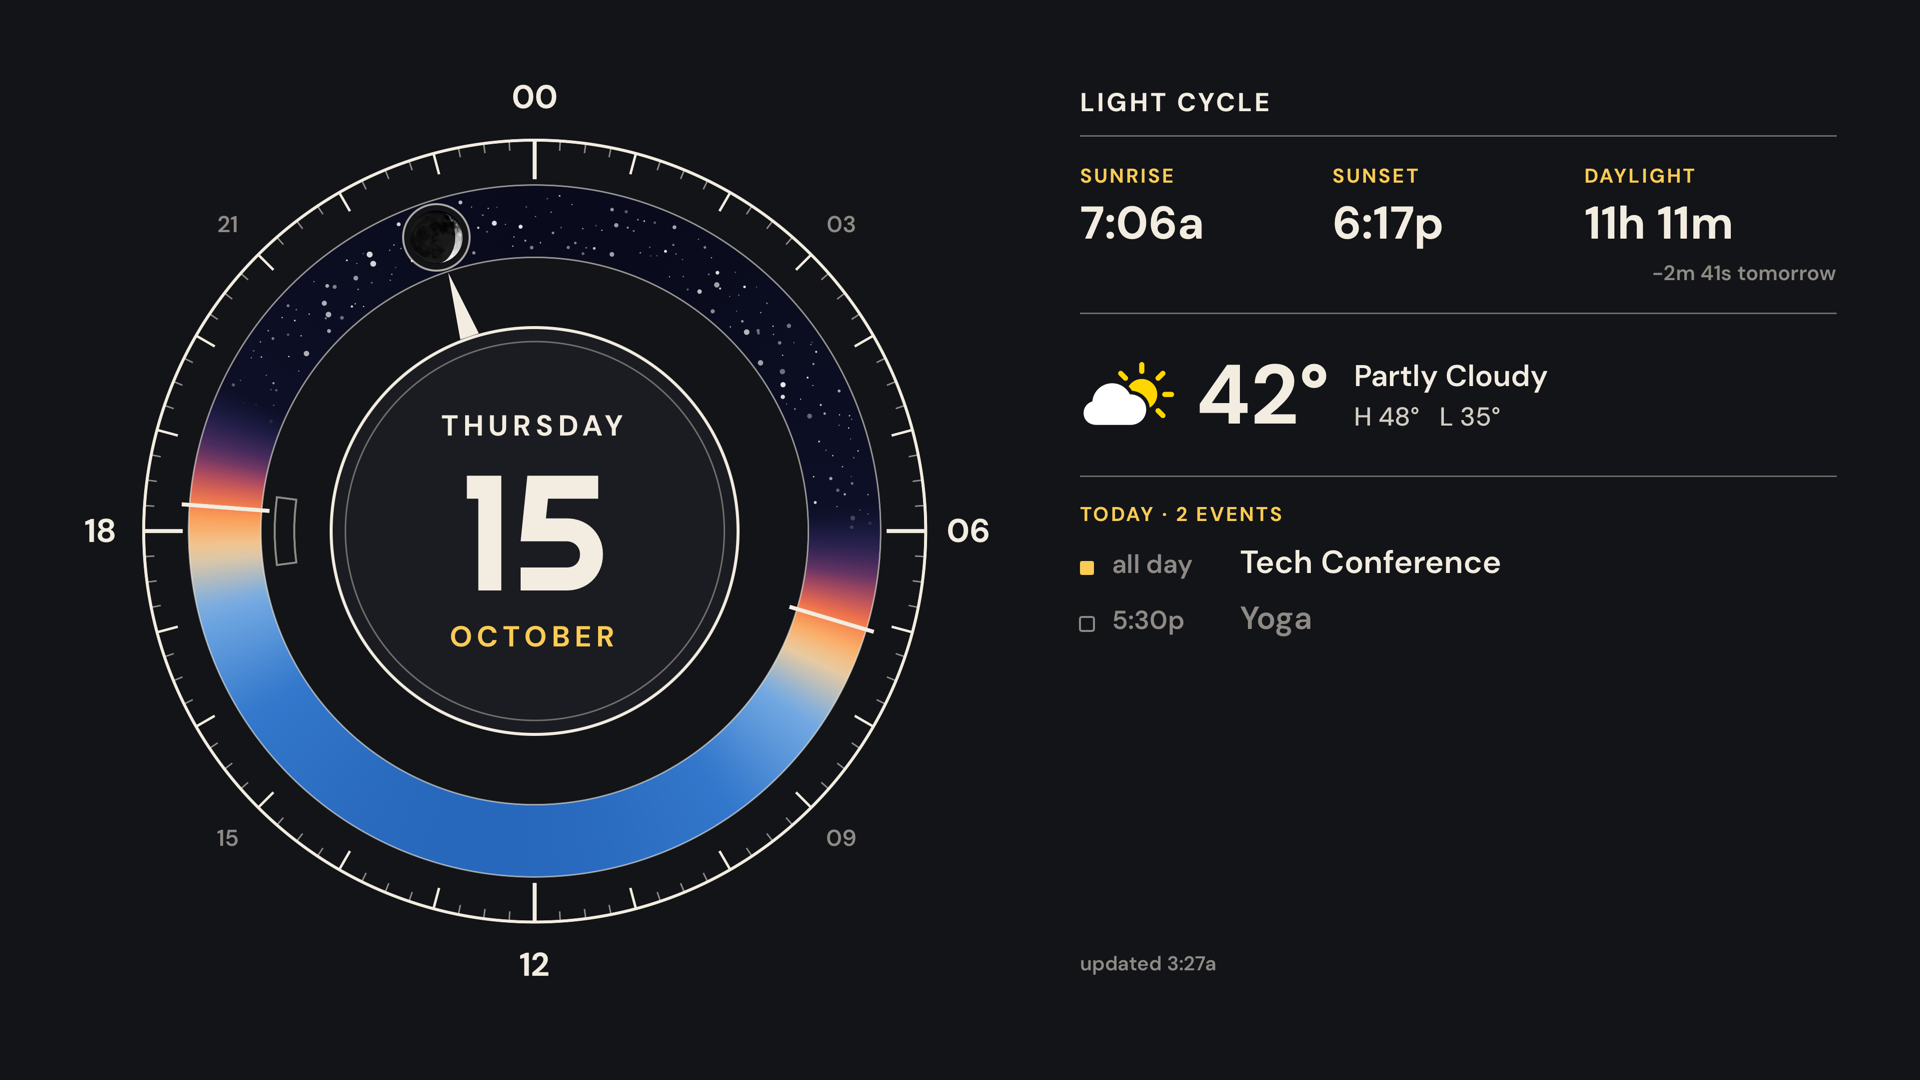
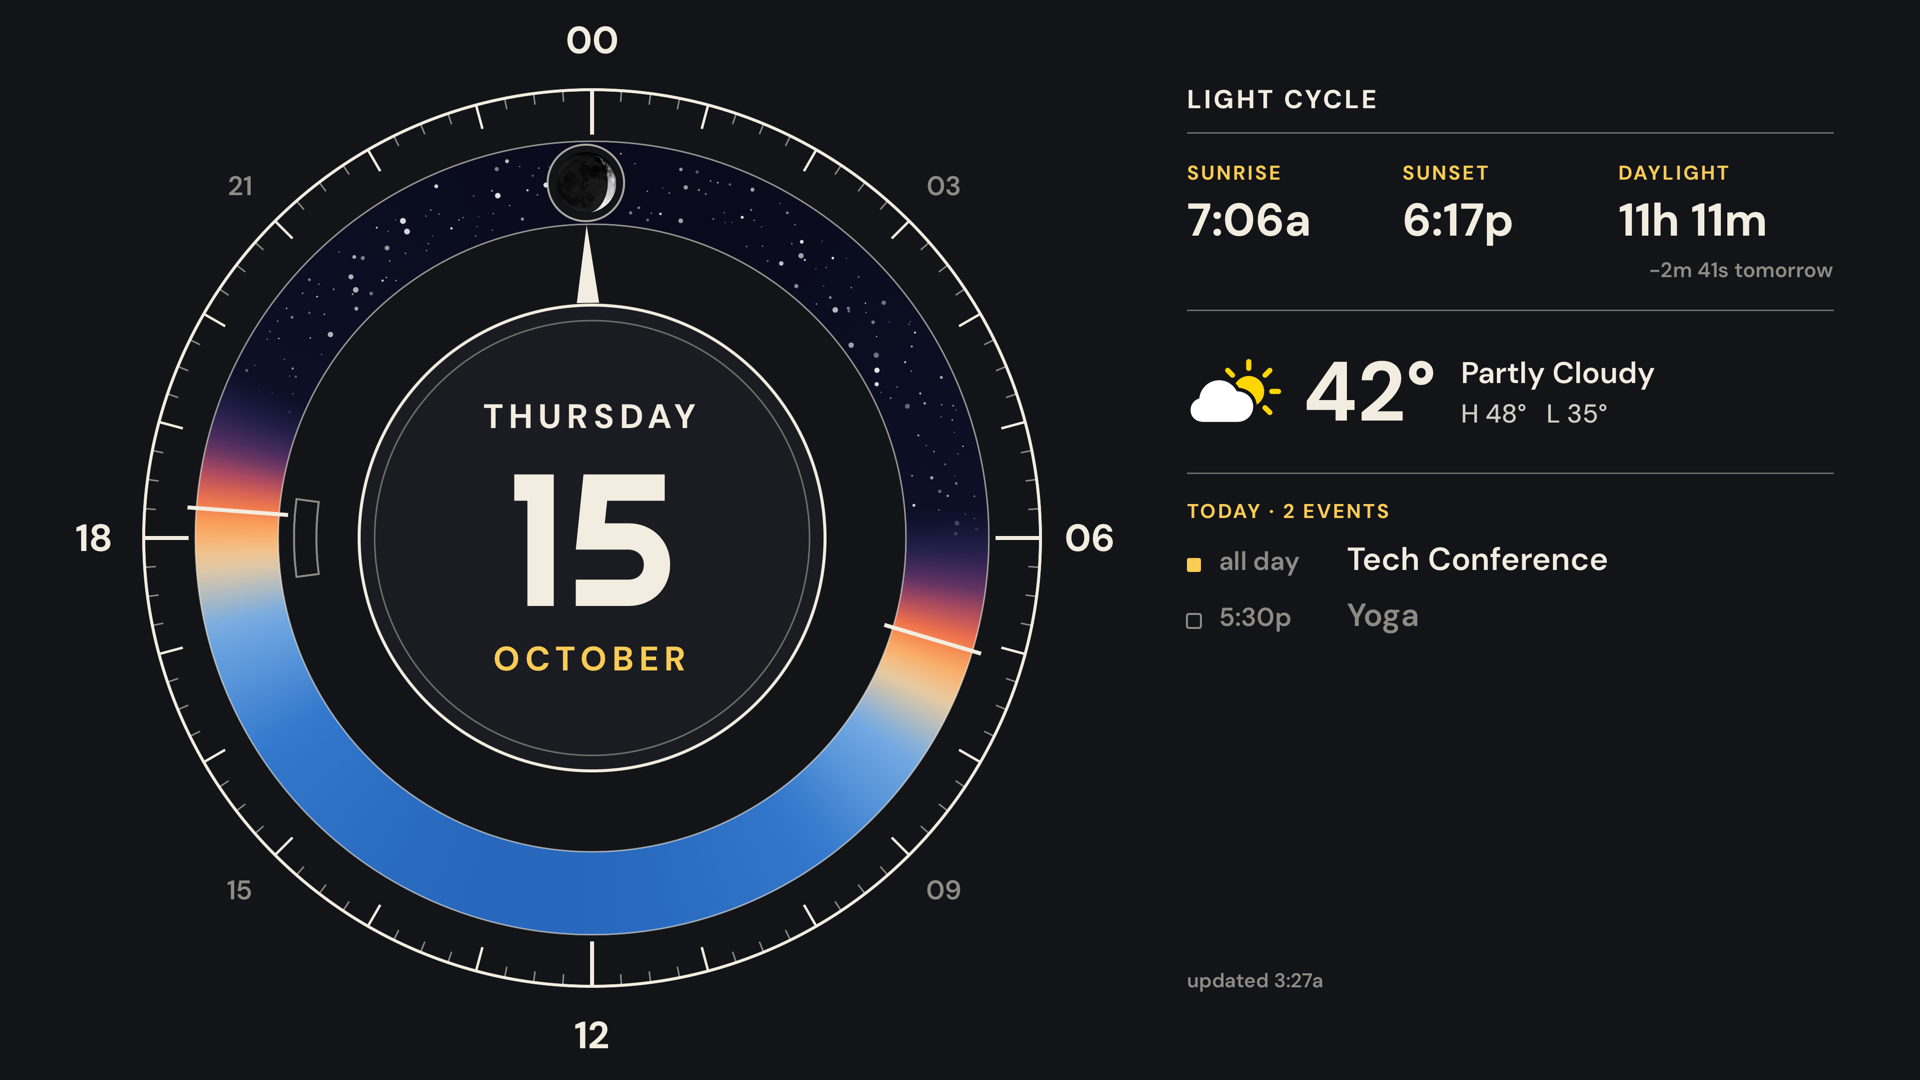
Slide between layouts, and give the Light Cycle dial more of the screen
Left and right now move between layouts with a short directional slide:
the new layout drifts in from the side pressed while the old one drifts out
the other way, crossfading over half a second. A pick in settings just
crossfades.

The Light Cycle takes the whole screen (fullBleed) so its dial can run
nearly to the top and bottom edges, about 12 % larger; the column keeps to
the overscan-safe margins.

diff --git a/HomeDashboardTV/UI/DashboardScreen.swift b/HomeDashboardTV/UI/DashboardScreen.swift
@@ -12,6 +12,8 @@ import SwiftUI
 struct DashboardScreen: View {
     @Environment(DashboardStore.self) private var store
     @FocusState private var screenFocused: Bool
+    /// Which way the last layout change went: -1 left, 1 right, 0 from settings.
+    @State private var step = 0
 
     var body: some View {
         ZStack {
@@ -27,8 +29,8 @@ struct DashboardScreen: View {
                     guard !store.settingsVisible else { return }
                     store.noteInteraction()
                     switch direction {
-                    case .left: store.layout = store.layout.advanced(by: -1)
-                    case .right: store.layout = store.layout.advanced(by: 1)
+                    case .left: change(by: -1)
+                    case .right: change(by: 1)
                     default: break
                     }
                 }
@@ -41,7 +43,18 @@ struct DashboardScreen: View {
         .background(Color(red: 0.05, green: 0.06, blue: 0.09))
         .animation(.easeInOut(duration: 0.25), value: store.settingsVisible)
         .onAppear { claimFocus() }
-        .onChange(of: store.settingsVisible) { _, _ in claimFocus() }
+        .onChange(of: store.settingsVisible) { _, visible in
+            // A pick in settings crossfades; only the remote's steps slide.
+            if visible { step = 0 }
+            claimFocus()
+        }
+    }
+
+    /// Steps the layout, noting the direction a run-loop turn first: the leaving layout takes
+    /// its transition from the last frame it was drawn in, so that frame must carry it.
+    private func change(by steps: Int) {
+        step = steps
+        DispatchQueue.main.async { store.layout = store.layout.advanced(by: steps) }
     }
 
     private func claimFocus() {
@@ -52,19 +65,28 @@ struct DashboardScreen: View {
     private var content: some View {
             TimelineView(.everyMinute) { context in
                 if let snapshot = store.snapshot {
-                    switch store.layout {
-                    case .dashboard: frame(DashboardView.self, snapshot, context.date)
-                    case .agenda: frame(AgendaPlateView.self, snapshot, context.date)
-                    case .moon: frame(MoonView.self, snapshot, context.date)
-                    case .horizon: frame(HorizonView.self, snapshot, context.date)
-                    case .light: frame(LightCycleView.self, snapshot, context.date)
-                    case .quote: frame(QuoteView.self, snapshot, context.date)
-                    case .night: frame(NightView.self, snapshot, context.date)
+                    ZStack {
+                        layout(snapshot, context.date)
+                            .id(store.layout)
+                            .transition(LayoutSlide.transition(step: step))
                     }
+                    .animation(.easeInOut(duration: 0.55), value: store.layout)
                 } else if store.connection != nil {
                     Waiting(problem: store.problem)
                 }
             }
+    }
+
+    @ViewBuilder private func layout(_ snapshot: Snapshot, _ now: Date) -> some View {
+                    switch store.layout {
+                    case .dashboard: frame(DashboardView.self, snapshot, now)
+                    case .agenda: frame(AgendaPlateView.self, snapshot, now)
+                    case .moon: frame(MoonView.self, snapshot, now)
+                    case .horizon: frame(HorizonView.self, snapshot, now)
+                    case .light: frame(LightCycleView.self, snapshot, now)
+                    case .quote: frame(QuoteView.self, snapshot, now)
+                    case .night: frame(NightView.self, snapshot, now)
+                    }
     }
 
     private func frame<T: Theme>(_ theme: T.Type, _ snapshot: Snapshot, _ now: Date) -> some View {
@@ -84,6 +106,30 @@ struct DashboardScreen: View {
             ("Birthdays", sources.birthdays?.staleness),
         ].filter { $0.1?.isWorthFlagging == true }.map(\.0)
         return stale.isEmpty ? nil : "\(ListFormatter.localizedString(byJoining: stale)) not updated lately"
+    }
+}
+
+/// Moving between layouts with the remote: the new one drifts in from the side pressed as
+/// the old one drifts out the other way, both a fraction of the screen, crossfading as they
+/// go. A layout picked in settings (no direction) just crossfades.
+private struct LayoutSlide: ViewModifier {
+    let offset: CGFloat
+
+    func body(content: Content) -> some View {
+        content.offset(x: offset)
+    }
+
+    /// How far a layout travels: enough to read as a move, short of a full push.
+    static let travel: CGFloat = 220
+
+    static func transition(step: Int) -> AnyTransition {
+        let d = CGFloat(step.signum())
+        return .asymmetric(
+            insertion: .modifier(active: LayoutSlide(offset: d * travel), identity: LayoutSlide(offset: 0))
+                .combined(with: .opacity),
+            removal: .modifier(active: LayoutSlide(offset: -d * travel), identity: LayoutSlide(offset: 0))
+                .combined(with: .opacity)
+        )
     }
 }
 

diff --git a/HomeDashboardTV/UI/LightCycleView.swift b/HomeDashboardTV/UI/LightCycleView.swift
@@ -19,22 +19,37 @@ struct LightCycleView: Theme {
     private var zone: TimeZone { snapshot.timeZone }
     private var today: CivilDate { CivilDate(now, in: zone) }
 
+    /// The whole screen, so the dial can run nearly to its top and bottom edges: a circle
+    /// leaves the corners empty, and only its rim and the 00 and 12 come near them. The column
+    /// keeps to the overscan-safe margins on its own.
+    static let fullBleed = true
+
     var body: some View {
         GeometryReader { geometry in
             let size = geometry.size
-            let dial = min(size.height, size.width * 0.52)
-            HStack(alignment: .center, spacing: size.width * 0.05) {
+            let dial = min(size.height - 2 * Margin.dial, size.width * 0.55)
+            HStack(alignment: .center, spacing: size.width * 0.04) {
                 Dial(snapshot: snapshot, now: now, day: today)
                     .frame(width: dial, height: dial)
-                Column(snapshot: snapshot, now: now, day: today, height: size.height)
+                Column(snapshot: snapshot, now: now, day: today, height: size.height - 2 * Margin.columnV)
+                    .padding(.vertical, Margin.columnV)
+                    .padding(.trailing, Margin.columnH)
                     .frame(maxWidth: .infinity, maxHeight: .infinity, alignment: .topLeading)
             }
+            .padding(.leading, Margin.columnH - 20)
             .frame(width: size.width, height: size.height)
         }
-        .padding(.vertical, 10)
     }
 
     var backdrop: some View { Ink.plate }
+}
+
+private enum Margin {
+    /// Above and below the dial's numerals: clear of the 10 pt burn-in drift.
+    static let dial: CGFloat = 22
+    /// tvOS's overscan-safe insets, kept by the column.
+    static let columnV: CGFloat = 60
+    static let columnH: CGFloat = 90
 }
 
 private enum Ink {
@@ -77,7 +92,7 @@ private struct Dial: View {
     var body: some View {
         GeometryReader { geometry in
             let side = min(geometry.size.width, geometry.size.height)
-            let r = side / 2 / 1.17
+            let r = side / 2 / 1.155
             let centre = CGPoint(x: geometry.size.width / 2, y: geometry.size.height / 2)
             let sun = SunModel(snapshot: snapshot)
             let nowHour = LightCycle.hour(now, in: zone)
